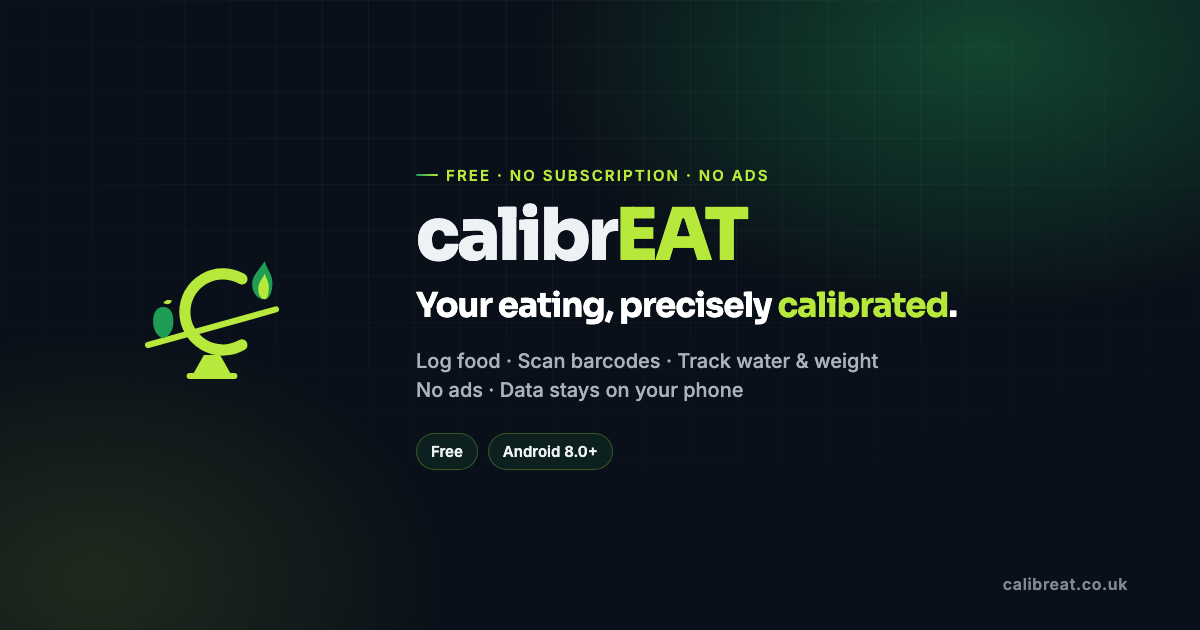
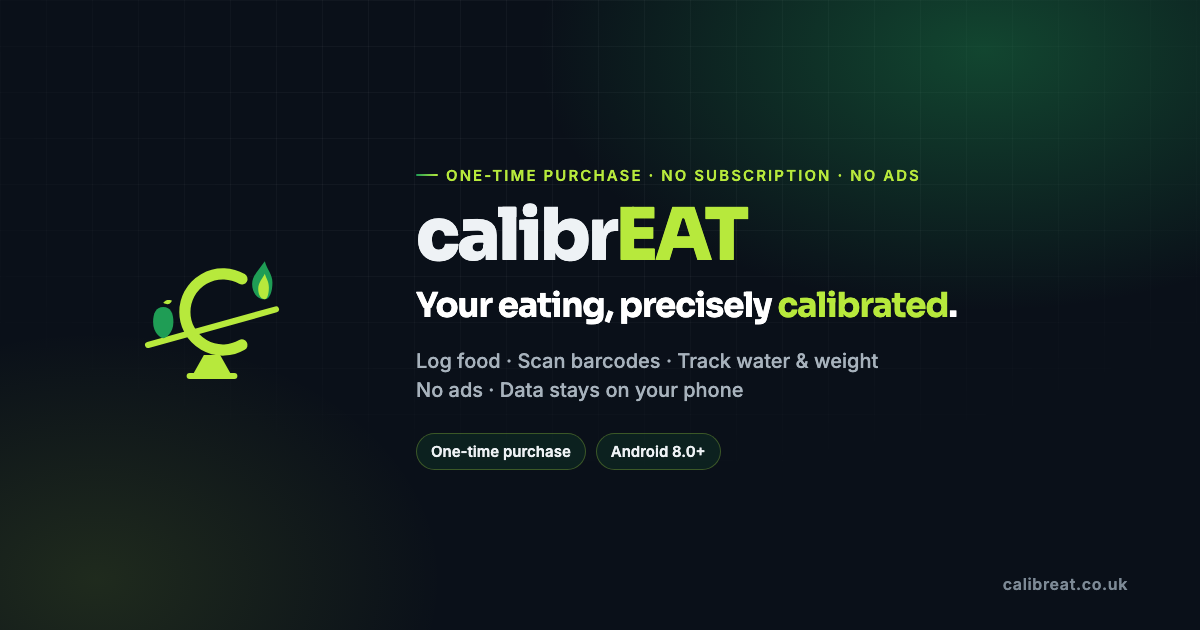
Correct site copy: calibrEAT is a paid one-time purchase, not free
The live site called the app free and said nothing is locked behind a
licence, which contradicts the one-time paid unlock. Update the feature
card, privacy callout and footer, the README, and the social card (kicker,
pill and regenerated og-image.png).

🤖 Generated with Codebuff

Changed region(s): [[0.37, 0.2714, 0.7708, 0.3016], [0.3392, 0.6937, 0.5858, 0.754]]

diff --git a/apps/web/privacy.html b/apps/web/privacy.html
@@ -65,7 +65,7 @@
   <section class="reveal reveal" style="padding-top:32px;">
     <div class="wrap"><div class="legal">
 
-      <div class="callout"><strong>At a glance:</strong> calibrEAT is free, has no account, shows no ads and contains no analytics or tracking SDKs. Your meals, water, weight and profile are stored in a local database on your device. We do not operate a server that holds your health data. The website at <b>calibreat.co.uk</b> is static HTML hosted on GitHub Pages and sets no cookies.</div>
+      <div class="callout"><strong>At a glance:</strong> calibrEAT is a paid app with a one-time purchase, has no account, shows no ads and contains no analytics or tracking SDKs. Your meals, water, weight and profile are stored in a local database on your device. We do not operate a server that holds your health data. The website at <b>calibreat.co.uk</b> is static HTML hosted on GitHub Pages and sets no cookies.</div>
 
       <div class="toc"><strong>Contents</strong>
         <ol>
@@ -181,7 +181,7 @@
     <div class="footer-grid">
       <div>
         <a class="brand" href="index.html"><img data-mark alt="calibrEAT mark" style="width:27px;height:27px;" /><span>calibr<span class="e">EAT</span></span></a>
-        <p class="foot-copy">Calibrate your eating lifestyle. Free, and your data stays on your phone.</p>
+        <p class="foot-copy">Calibrate your eating lifestyle. One-time purchase, and your data stays on your phone.</p>
         <div class="foot-trust"><span class="chip">No ads</span><span class="chip">No subscriptions</span><span class="chip">No tracking</span></div>
       </div>
       <div><h4>Product</h4><ul><li><a href="index.html#features">Features</a></li><li><a href="index.html#faq">FAQ</a></li></ul></div>

diff --git a/apps/web/index.html b/apps/web/index.html
@@ -247,8 +247,8 @@
             <p>Generic foods come from the bundled CoFID 2021 dataset, so they work without a connection. Packaged products come from Open Food Facts UK, and barcode scans can still check the wider catalogue.</p>
           </li>
           <li>
-            <h3>Free, with no account</h3>
-            <p>No subscriptions, no in-app purchases and no ads. Nothing is locked behind a licence, a sign-in or a paywall.</p>
+            <h3>Pay once, with no account</h3>
+            <p>A one-time purchase, with no subscriptions, no in-app purchases and no ads. Nothing is locked behind a sign-in.</p>
           </li>
         </ul>
       </div>

diff --git a/scripts/og-card.html b/scripts/og-card.html
@@ -112,12 +112,12 @@
       </svg>
     </div>
     <div class="copy">
-      <div class="kicker">Free · no subscription · no ads</div>
+      <div class="kicker">One-time purchase · no subscription · no ads</div>
       <h1>calibr<span class="e">EAT</span></h1>
       <p class="lede">Your eating, precisely <em>calibrated</em>.</p>
       <p class="sub">Log food · Scan barcodes · Track water &amp; weight<br />No ads · Data stays on your phone</p>
       <div class="pills">
-        <span class="pill">Free</span>
+        <span class="pill">One-time purchase</span>
         <span class="pill">Android 8.0+</span>
       </div>
     </div>

diff --git a/README.md b/README.md
@@ -1,6 +1,6 @@
 # calibrEAT
 
-Calibrate your eating lifestyle. A free, cross-platform calorie tracker with a
+Calibrate your eating lifestyle. A cross-platform calorie tracker with a
 one-time lifetime unlock — no subscriptions, no in-app purchases, no ads.
 
 ## Repository layout
